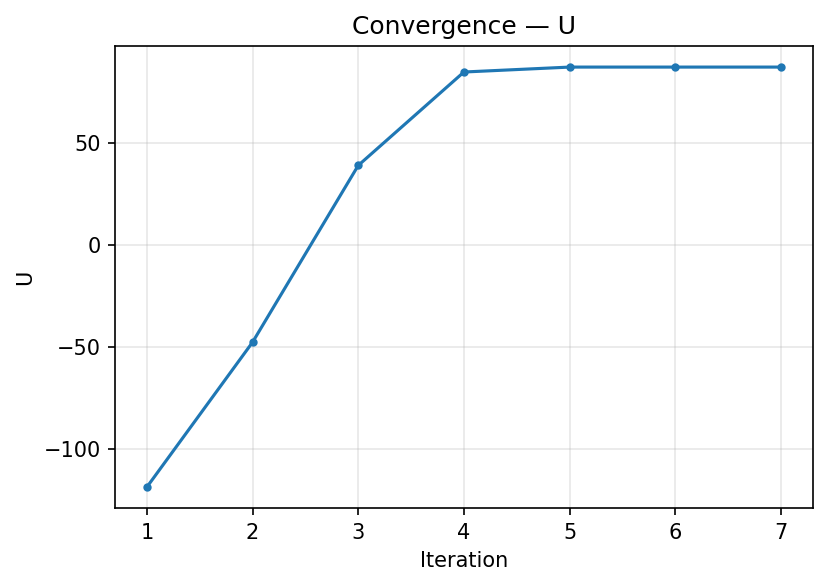
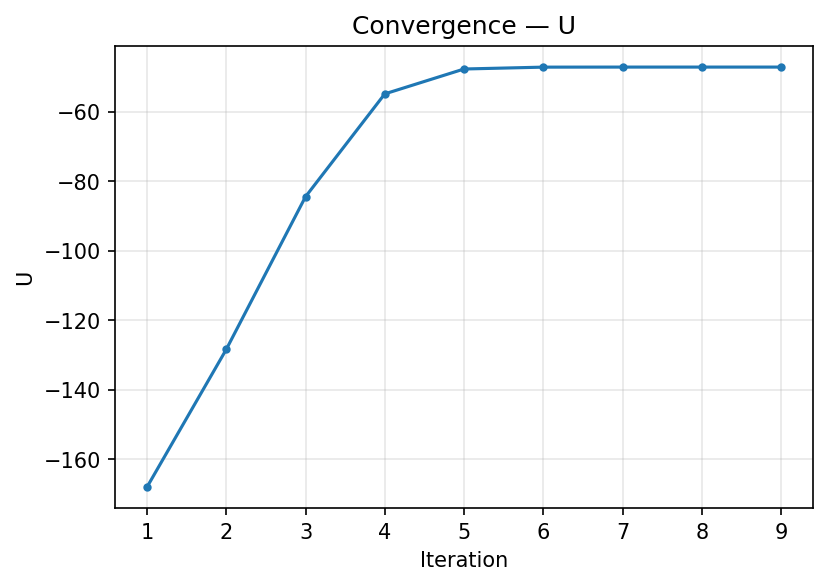
Update SBM example with closer centers and sparser graph
- Change SBM parameters: p_in=0.2, centers=[[0,0],[3,3],[0,3]]
- Regenerate data and figures (ARI = 0.94)
- Update README to match new parameters and results

diff --git a/examples/example_sbm_100.py b/examples/example_sbm_100.py
@@ -20,8 +20,8 @@ from generate import SBMData
 
 sbm = SBMData(
     n=100, k=3, d=2,
-    p_in=0.3, p_out=0.02,
-    centers=[[0, 0], [4, 4], [0, 4]],
+    p_in=0.2, p_out=0.02,
+    centers=[[0, 0], [3, 3], [0, 3]],
     sigma=1.0, seed=42,
 )
 sbm.export(str(Path(__file__).parent / "sbm_100_2"))

diff --git a/examples/example_potts_30x30.py b/examples/example_potts_30x30.py
@@ -5,10 +5,10 @@ import matplotlib.pyplot as plt
 
 potts = PottsImageData(
     nl=30,
-    nc=30,
+    nc=50,
     k=3,
     beta=0.8,
-    centers=[[0, 0], [4, 4], [0, 4]],
+    centers=[[0, 0], [2, 2], [0, 2]],
     sigma=1.0,
     seed=42,
 )

diff --git a/README.md b/README.md
@@ -5,6 +5,8 @@ Hidden Markov Random Fields. Given a graph where each node carries a feature
 vector, NEM produces a partition that accounts for both the data and the
 spatial structure of the graph.
 
+>The original C code  was written by Van Mo Dang in 1996 and the last C version date from (v1.07, 1999). Claude-code has helped to reactivate the code and to provide a python version. 
+
 **Reference:**
 Ambroise, C., Dang, V.M. and Govaert, G. (1997). Clustering of spatial data
 by the EM algorithm. *geoENV I — Geostatistics for Environmental Applications*,
@@ -41,8 +43,8 @@ from generate import SBMData
 
 sbm = SBMData(
     n=100, k=3, d=2,
-    p_in=0.3, p_out=0.02,
-    centers=[[0, 0], [4, 4], [0, 4]],
+    p_in=0.2, p_out=0.02,
+    centers=[[0, 0], [3, 3], [0, 3]],
     sigma=1.0, seed=42,
 )
 sbm.export("sbm_100_2")   # writes .str, .dat, .nei, .true.cf
@@ -61,7 +63,7 @@ model.fit(G)
 true_labels = sbm.labels + 1  # convert to 1-based
 ari = pynem.metrics.adjusted_rand_index(true_labels, model.labels_)
 print(f"Adjusted Rand Index: {ari:.4f}")
-# Adjusted Rand Index: 1.0000
+# Adjusted Rand Index: 0.9403
 ```
 
 ### Visualize results
@@ -80,8 +82,8 @@ Convergence of the NEM criterion U:
 
 ![Convergence](examples/sbm_100_2_convergence.png)
 
-On this dataset NEM recovers the true partition perfectly (ARI = 1.0) in
-7 iterations.
+On this dataset NEM recovers the true partition with high accuracy
+(ARI = 0.94) in 7 iterations.
 
 ---
 
@@ -217,6 +219,13 @@ NEM expects files sharing the same base name:
 | `.str` | `S N D` or `N N D` (spatial/non-spatial) or `I Nl Nc D` (image grid) |
 | `.dat` | N x D matrix of feature vectors (space-separated) |
 | `.nei` | Adjacency list: first line = weighted flag, then `[NodeID] [NbNeighbors] [Neighbors...]` |
+
+
+where 
+- N is the sample size
+- D is the number of features of each sample vector
+- Nl is the number of lines of the image (if the imput data is an image)
+- Nc is the number of columns of the image (if eh input data is an image)
 
 ### Output files
 
